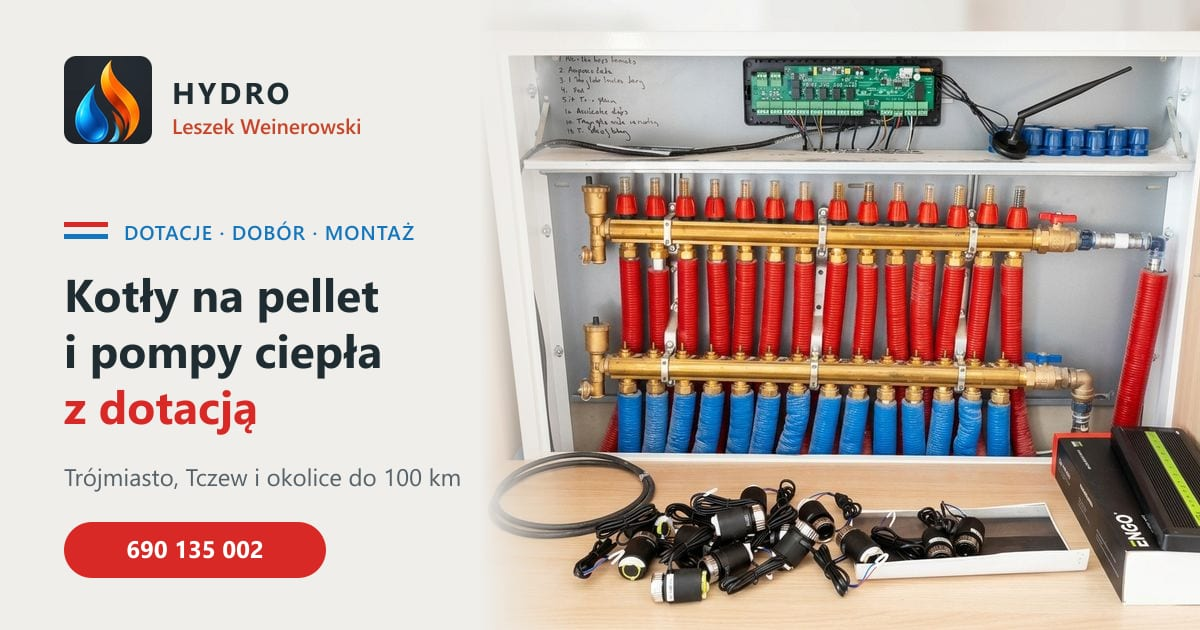
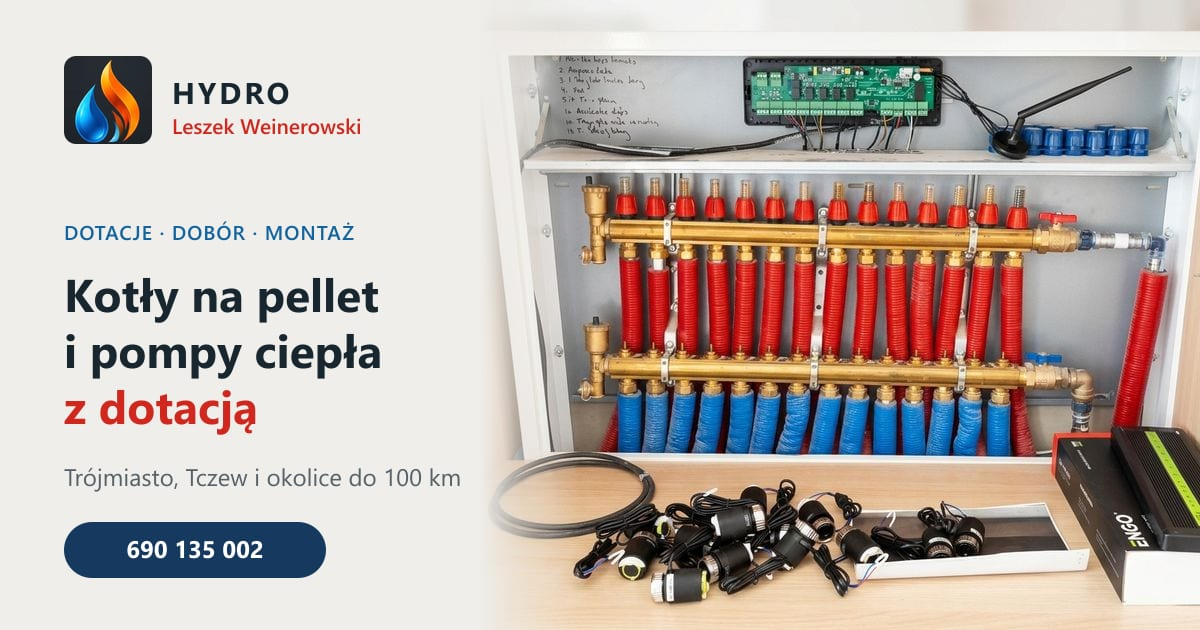
style: unify palette and button hierarchy across the site
One palette from the logo and hero photo: red only for primary actions,
navy for structure, blue for labels and links, warm greys from the
photo's wall. Buttons gain an outline variant for repeated actions, so
each section has a single red call to action. Headings move to ink,
the hero marker and the thick header bar are gone, and the sharing
image follows the new colours. All pairs checked at AA or better.

Changed region(s): [[0.0308, 0.8143, 0.2775, 0.9349], [0.0308, 0.3317, 0.3392, 0.3921]]

diff --git a/src/styles/tokens.css b/src/styles/tokens.css
@@ -1,27 +1,28 @@
 :root {
   color-scheme: light;
 
+  /*
+   * One palette taken from the logo and the hero photo.
+   * Red is reserved for actions, navy carries structure, blue marks links and labels,
+   * and the warm greys follow the wall behind the manifold in the hero photo.
+   */
   --color-bg: #ffffff;
   --color-surface: #ffffff;
-  --color-subtle: #f2f2f5;
-  --color-ink: #1f2d33;
-  --color-muted: #55626a;
-  --color-line: #e2e3ea;
-  --color-field: #858a9c;
-  /* Decorative and large text only: 3.1:1 on white is enough for headings, not for body copy. */
-  --color-coral: #f0674a;
-  /* The same hue darkened to 4.8:1 so white text on buttons and labels passes AA. */
-  --color-coral-strong: #c8452a;
-  --color-on-coral: #ffffff;
-  --color-petrol: #1f4e5a;
-  --color-on-petrol: #ffffff;
-  /* Muted text drops to 3.9:1 on the band, so text placed on it uses ink. */
-  --color-band: #d3d4e0;
-
-  /* Sampled from the hero photo: supply and return pipes and the wall behind the manifold. */
-  --color-supply: #d82926; /* 4.9:1 with white */
-  --color-return: #1477be; /* 4.8:1 with white */
+  --color-subtle: #f4f4f1;
   --color-hero-bg: #efeeea;
+  --color-band: #e6e6e0;
+  --color-line: #e0e0da;
+  --color-field: #878b8c; /* 3.4:1 on white, enough for input borders */
+  --color-ink: #18262f;
+  --color-muted: #56626a; /* 5.0:1 or more on every background above */
+
+  --color-accent: #d0281f; /* 5.2:1 with white */
+  --color-accent-hover: #b0201a;
+  --color-on-accent: #ffffff;
+  --color-navy: #163a5f; /* 11.6:1 with white */
+  --color-navy-hover: #0f2a46;
+  --color-on-navy: #ffffff;
+  --color-blue: #11649f; /* 6.3:1 on white, 5.7:1 on subtle */
 
   --font-base: "IBM Plex Sans", ui-sans-serif, system-ui, sans-serif;
   --font-mono: "IBM Plex Mono", ui-monospace, "Cascadia Mono", monospace;
@@ -54,6 +55,6 @@
   --radius-pill: 999px;
   --target-size: 2.75rem;
 
-  --shadow-card: 0 2px 10px color-mix(in srgb, #1f2d33 14%, transparent);
+  --shadow-card: 0 2px 12px color-mix(in srgb, #18262f 12%, transparent);
   --hero-overlap: clamp(1.5rem, 1rem + 2.5vw, 3rem);
 }

diff --git a/src/content/gallery.ts b/src/content/gallery.ts
@@ -161,8 +161,8 @@ export const galleryPreview = {
   moreLabel: "Zobacz wszystkie realizacje",
   photos: [
     photos.pelletBoilerFuelStore,
+    photos.heatPumpIndoor,
     photos.manifoldPair,
-    photos.trenchConvector,
     photos.pelletBoilerLowCeiling,
   ],
 };

diff --git a/src/styles/global.css b/src/styles/global.css
@@ -59,7 +59,7 @@ a:hover {
 }
 
 :focus-visible {
-  outline: 3px solid var(--color-petrol);
+  outline: 3px solid var(--color-navy);
   outline-offset: 3px;
 }
 
